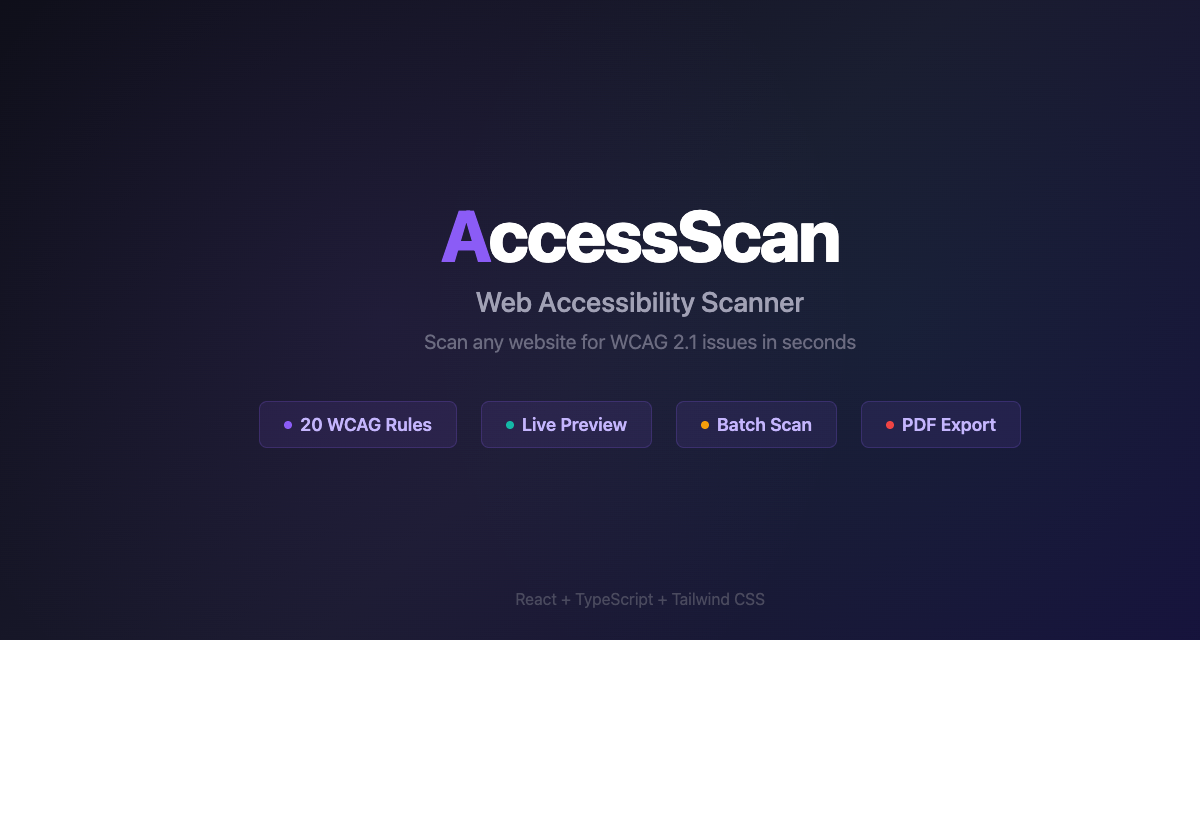
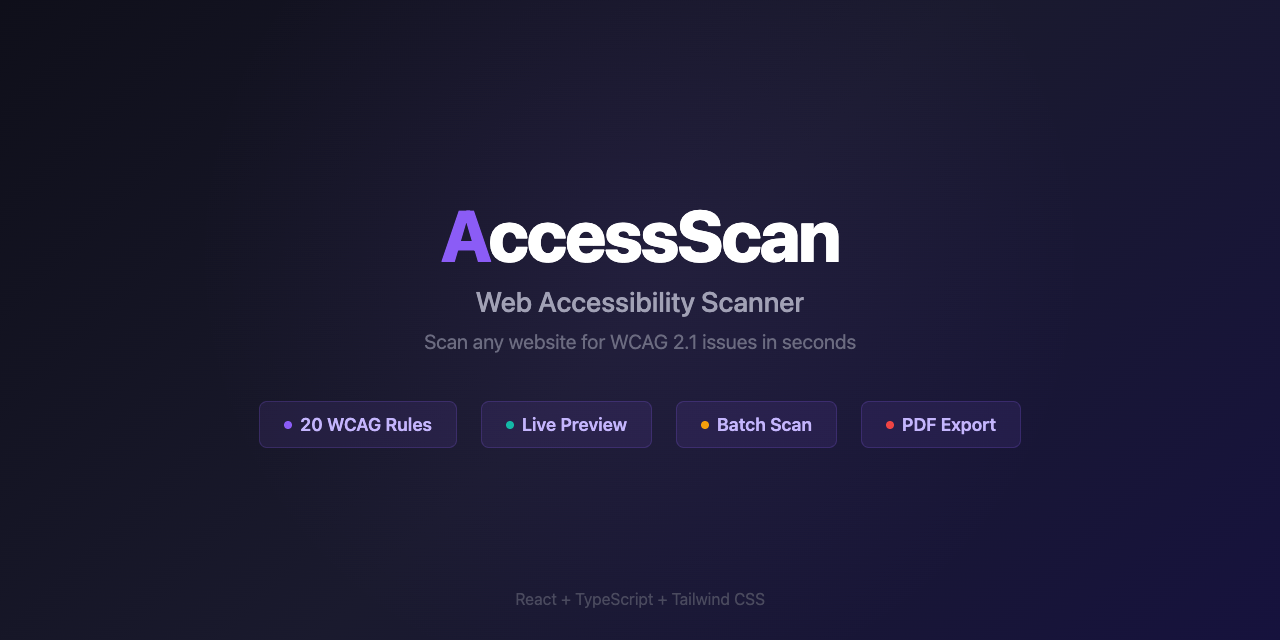
fix: center align social preview content

diff --git a/scripts/social-preview.html b/scripts/social-preview.html
@@ -10,12 +10,12 @@ body { width: 1280px; height: 640px; overflow: hidden; }
   display: flex; flex-direction: column; align-items: center; justify-content: center;
   font-family: -apple-system, BlinkMacSystemFont, 'Segoe UI', system-ui, sans-serif;
   position: relative;
+  text-align: center;
 }
 .card::before {
   content: '';
   position: absolute; top: 0; left: 0; right: 0; bottom: 0;
-  background: radial-gradient(circle at 30% 50%, rgba(139, 92, 246, 0.08) 0%, transparent 50%),
-              radial-gradient(circle at 70% 50%, rgba(20, 184, 166, 0.05) 0%, transparent 50%);
+  background: radial-gradient(circle at 50% 40%, rgba(139, 92, 246, 0.08) 0%, transparent 60%);
 }
 .logo {
   font-size: 72px; font-weight: 800; color: #ffffff;
@@ -33,6 +33,7 @@ body { width: 1280px; height: 640px; overflow: hidden; }
 }
 .badges {
   display: flex; gap: 24px; position: relative; z-index: 1;
+  justify-content: center;
 }
 .badge {
   display: flex; align-items: center; gap: 8px;
@@ -40,10 +41,12 @@ body { width: 1280px; height: 640px; overflow: hidden; }
   background: rgba(139, 92, 246, 0.1);
   border: 1px solid rgba(139, 92, 246, 0.2);
   color: #c4b5fd; font-size: 18px; font-weight: 600;
+  white-space: nowrap;
 }
 .badge .dot {
   width: 8px; height: 8px; border-radius: 50%;
   background: #8b5cf6;
+  flex-shrink: 0;
 }
 .badge:nth-child(2) .dot { background: #14b8a6; }
 .badge:nth-child(3) .dot { background: #f59e0b; }